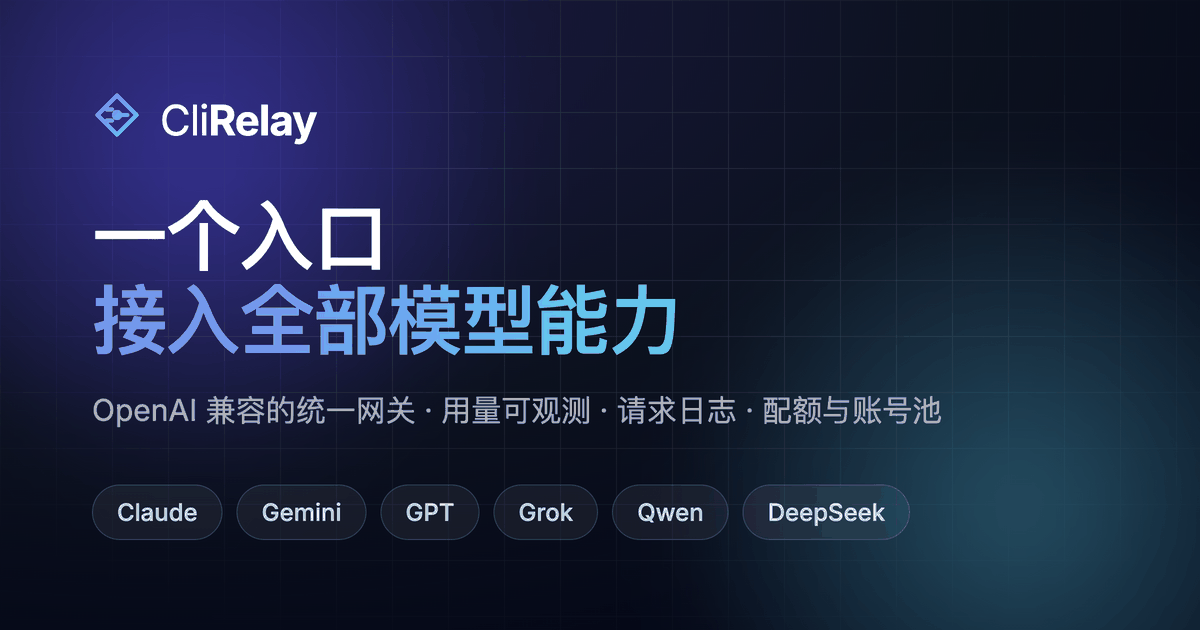
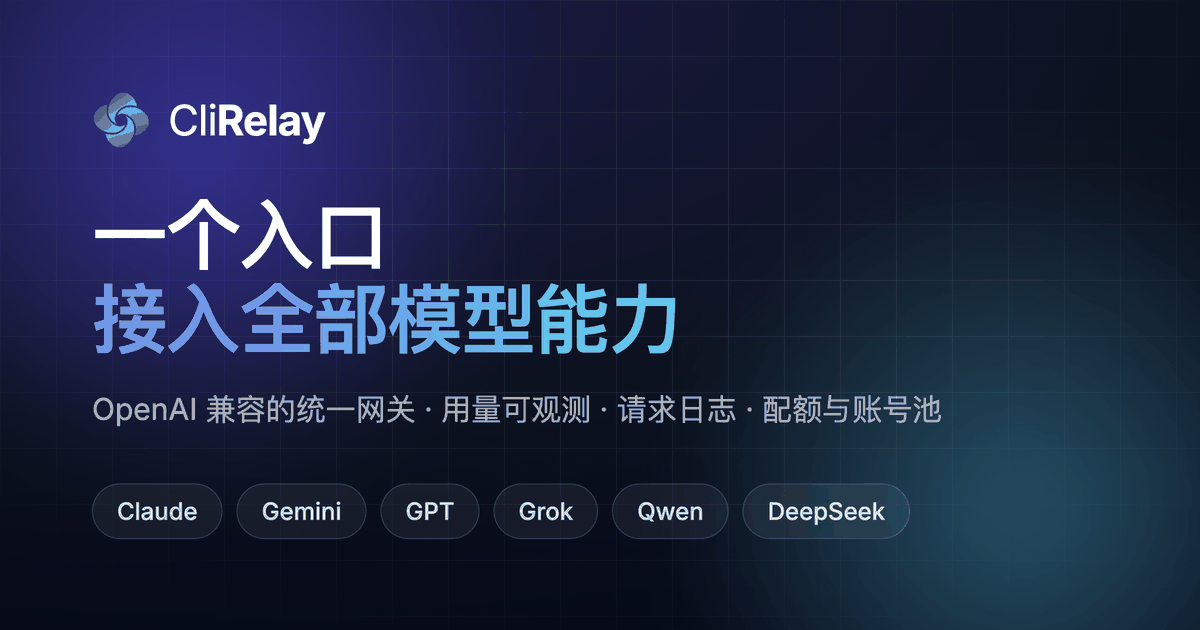
feat(brand): 重做品牌标记为花瓣旋涡，并补齐后台残留旧品牌 (#873)
标记
- 用 grok-imagine-image-quality 重出品牌图形：多片曲面花瓣螺旋向中心聚拢，
  形成有向心动势的旋涡。此前的几何箭头方向线条硬、转折锐，观感僵硬
- 底板版由内联版程序化合成（提取花瓣 alpha → 白色填充 → 靛蓝圆角底板），
  两个变体像素级同源，不依赖模型二次生成
- 同步 favicon-32/192、apple-touch-icon 与 OG 图；内联版宽高比 174:160 → 201:200，
  组件常量一并更新，否则会被拉伸

后台残留旧品牌
- 侧栏品牌区此前是 bg-blue-600 方块 + 通用仪表盘图标 + 硬编码 "CLI Proxy"，
  换为品牌标记与 BRAND_NAME
- i18n 中 13 处 "Code Proxy" 改为 CliRelay。"CLI Proxy API" / "CPA" 保留——
  那是上游后端服务的技术名称，升级提示等场景引用它，改掉会让用户对不上要升级的东西

验证：./scripts/ci-pr.sh 全绿（lint / design:check / 1003 项单测 / build /
bundle-diff），另跑通 boundary:imports、size:check、audit:deps 与 6 项 e2e。
新标记已在门户顶栏实地核对渲染与宽高比。

diff --git a/apps/admin-panel/src/app/layout/AppShell.tsx b/apps/admin-panel/src/app/layout/AppShell.tsx
@@ -17,7 +17,6 @@ import { useTranslation } from "react-i18next";
 import {
   Building2,
   ChevronDown,
-  LayoutDashboard,
   LogOut,
   PanelLeft,
   Settings,
@@ -35,6 +34,7 @@ import {
   ThemeToggleButton,
   resolveMenuIcon,
 } from "@code-proxy/ui";
+import { BRAND_NAME, LogoMark } from "@code-proxy/assets";
 import { preloadPageRoute } from "@pages/registry";
 import { recoverFromChunkLoadError } from "@pages/chunkLoadRecovery";
 import {
@@ -909,9 +909,9 @@ function ShellSidebar({
             >
               <span
                 data-sidebar-logo="true"
-                className="grid h-8 w-8 place-items-center rounded-xl bg-blue-600 text-white"
+                className="grid h-8 w-8 place-items-center rounded-xl bg-indigo-50 ring-1 ring-indigo-500/15 dark:bg-indigo-500/10 dark:ring-indigo-400/20"
               >
-                <LayoutDashboard size={17} />
+                <LogoMark size={17} />
               </span>
             </span>
             <span
@@ -925,7 +925,7 @@ function ShellSidebar({
               <span className="block truncate text-base font-semibold tracking-tight">
                 {t("shell.console")}
               </span>
-              <span className="block text-2xs font-medium text-slate-400">CLI Proxy</span>
+              <span className="block font-display text-2xs text-slate-400">{BRAND_NAME}</span>
             </span>
           </div>
           <ScrollArea

diff --git a/packages/assets/src/brand/LogoMark.tsx b/packages/assets/src/brand/LogoMark.tsx
@@ -4,8 +4,8 @@ import markSolid from "./images/clirelay-mark-solid.png";
 /**
  * CliRelay 品牌标记。
  *
- * 图形语义：多条支路在中段汇聚，再合成一支箭头射出 —— 即「多家模型接入，一个入口输出」，
- * 与产品定位一一对应。
+ * 图形语义：多片曲面花瓣以螺旋方式向中心聚拢，形成有向心动势的旋涡 ——
+ * 即「多家模型汇聚到一个入口」，与产品定位对应。
  *
  * 两个变体：
  * - `inline`：无底板的渐变符号，用于顶栏、页脚等与文字并排的位置。
@@ -19,7 +19,7 @@ import markSolid from "./images/clirelay-mark-solid.png";
 export type LogoMarkVariant = "inline" | "solid";
 
 /** 内联标记的宽高比（箭头造型天然横向）。用 size 控制高度，宽度按此比例推导。 */
-const INLINE_ASPECT = 202 / 160;
+const INLINE_ASPECT = 201 / 200;
 
 export interface LogoMarkProps {
   /** 标记高度（px）。宽度由变体的宽高比决定。 */
